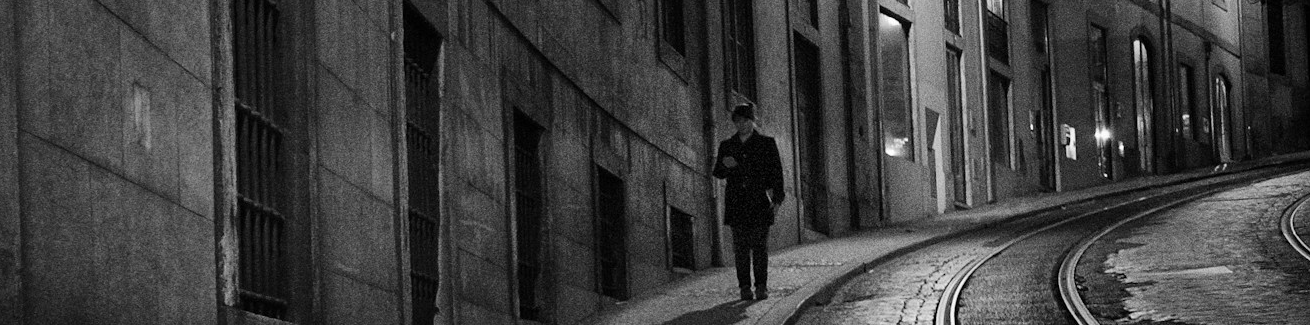
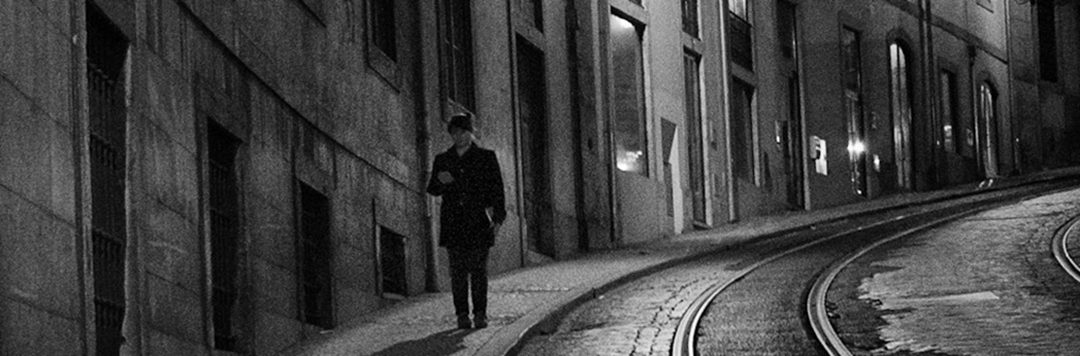
g

diff --git a/projects/photography-portfolio-site/css/style.css b/projects/photography-portfolio-site/css/style.css
@@ -11,14 +11,37 @@ body {
 
 #navbar {
     font-family: Knewave;
-    background-image: url(../images/sidewalk\ hero.png);
+    background: linear-gradient(rgb(8, 8, 8), rgb(47, 47, 47));
     display: flex;
     justify-content: space-between;
 }
 
-#navbar h1, p {
+#navbar a {
     color: white;
-    display: inline-block;
+    display: inline;
+    text-decoration: none;
+}
+
+.hero img {
+    width: 100%;
+    
+}
+
+.hero {
+    /* These four properties are essential for every hero! */
+    background-image: url(../images/stars-on-velvet.jpg);
+    background-size: cover;
+    background-position: center center;
+    height: 100vh;
+    font-family: Knewave;
+    justify-content: center;
+    align-items: center;
+}
+
+.hero-content {
+    color: rgb(255, 255, 255);
+    text-align: right;
+    flex-wrap: wrap;
 }
 
 .portfolio {
@@ -26,14 +49,13 @@ body {
     grid-template-columns: 1fr 1fr;
     gap: 64px;
     margin: 64px;
+    padding: auto;
     align-items: center;
     justify-content: center;
-    padding-left: 165px
 }
 
 .portfolio img {
     height: 250px;
-    max-width: 283px;
     width: 100%;
     flex: 1;
     display: grid;

diff --git a/projects/photography-portfolio-site/index.html b/projects/photography-portfolio-site/index.html
@@ -8,11 +8,20 @@
     </head>
     <body>
         <div id="navbar">
-            <h1>PHOTOS BY JIM</h1>
-            <p>Work</p>
-            <p>Contact</p>
+            <a href=#><h1>PHOTOS BY JIM</h1></a>
+            <a href="#">Work</a>
+            <a href="#">Contact</a>
         </div>
-
+        <div class="hero">
+            <img
+                src="images/sidewalk hero.png"
+                alt="Black and white photo of a man walking along a sidewalk"
+            >
+            <div class="hero-content">
+                <h2>PHOTOS BY JIM</h2>
+                <a href="#"><h3>View Gallery</h3></a>
+            </div>
+        </div>
         <div class="portfolio">
             <img
                 src="images/urban-17c5x.jpg"
